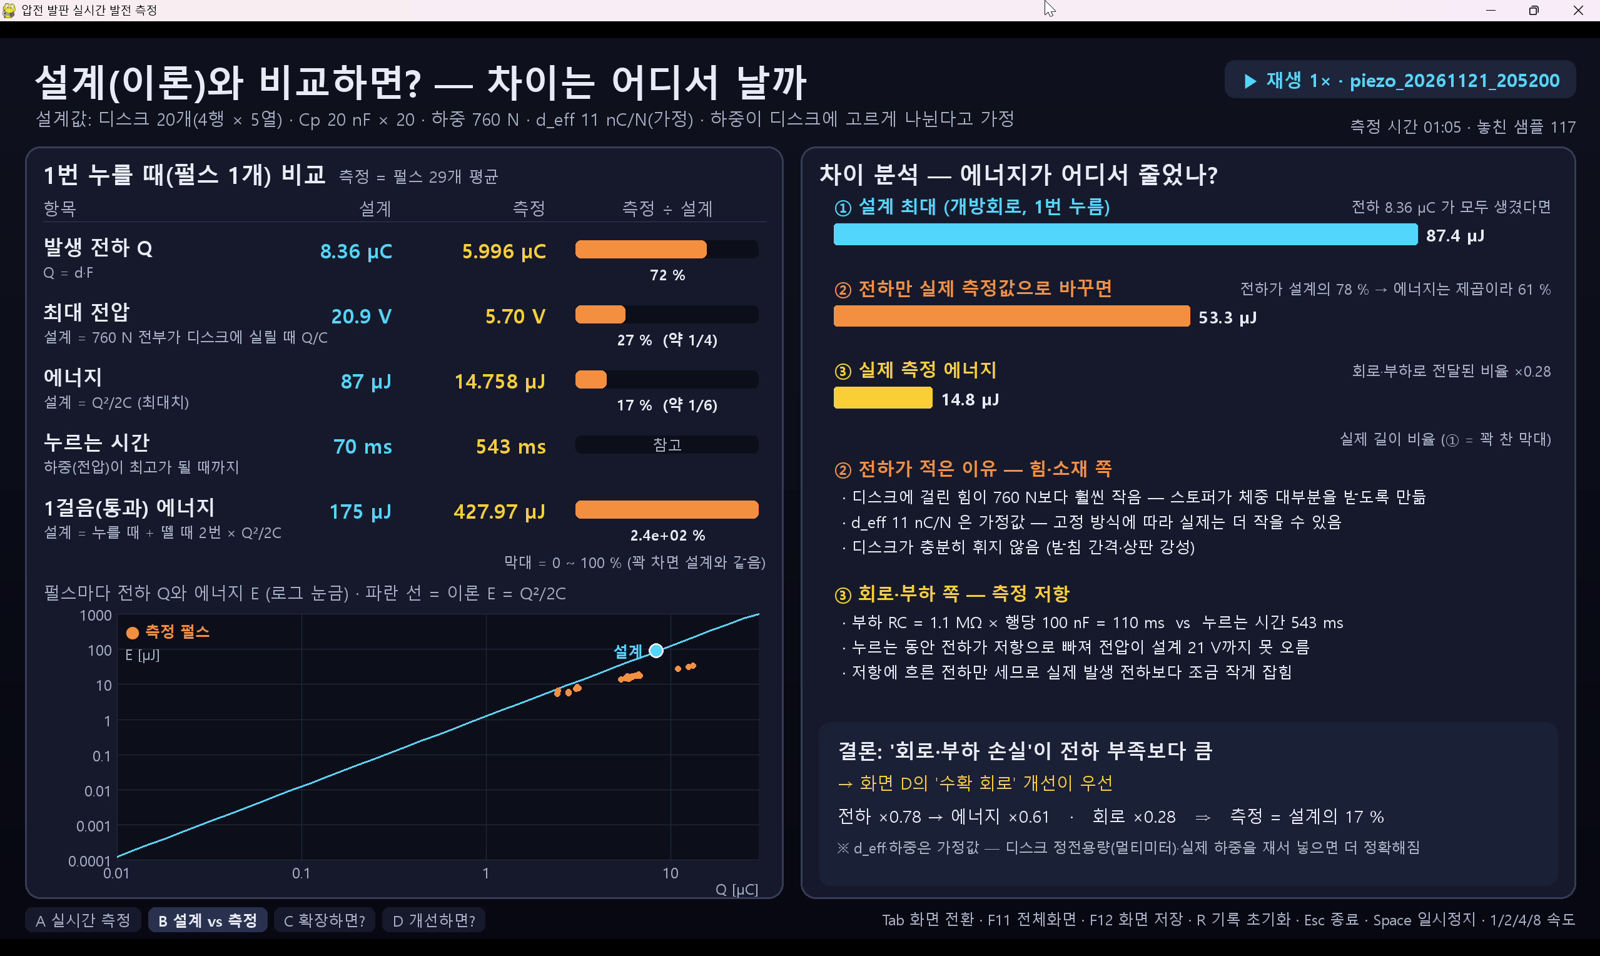
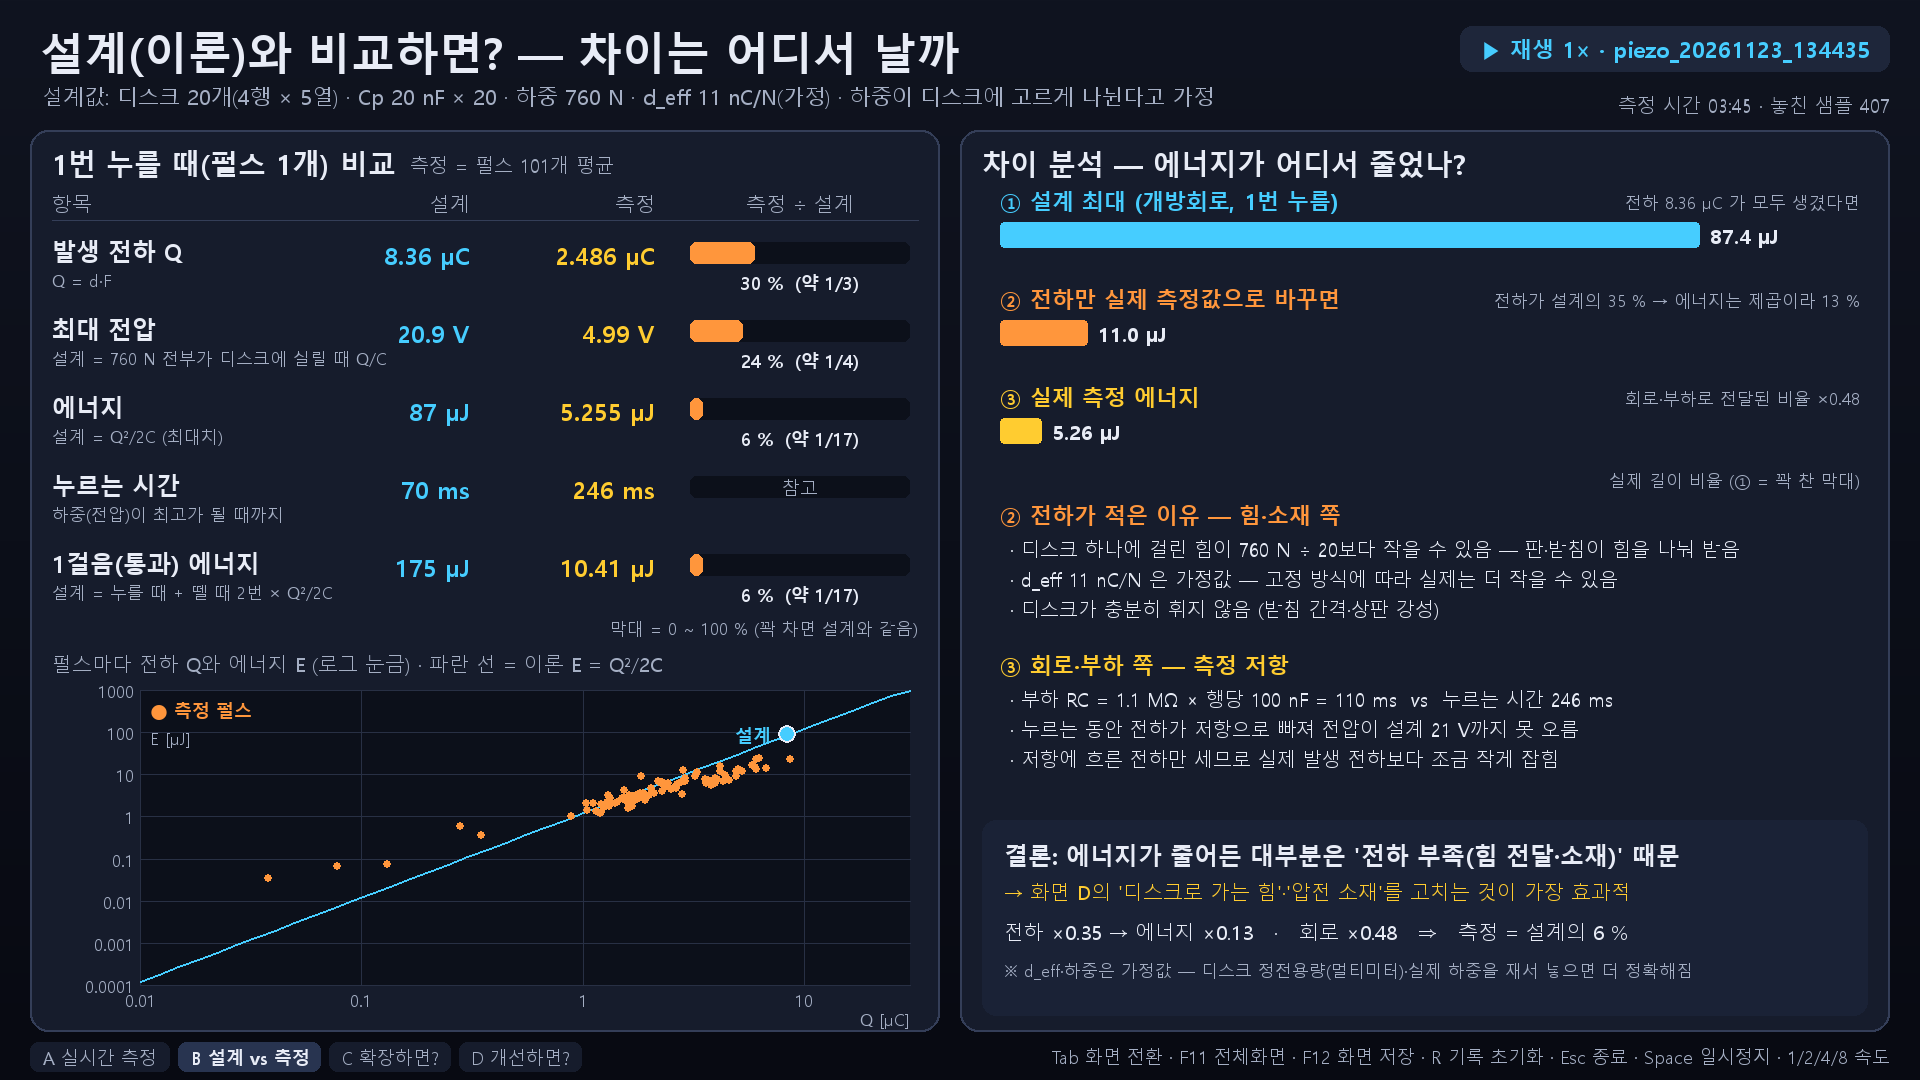
fix: GUI no longer describes stoppers that were never installed
Screen D/B text now says the force is shared by the top plate, bumpers
and supports. Walkthrough captures regenerated from the cafeteria replay
and CODE_WALKTHROUGH.md updated with both sessions.

diff --git a/tile_5x4/piezo_gui/CODE_WALKTHROUGH.md b/tile_5x4/piezo_gui/CODE_WALKTHROUGH.md
@@ -1,11 +1,13 @@
 # GUI 코드 해석 — 화면마다 무엇을 어떻게 계산하나
 
-`piezo_gui_v1.py`(Windows)와 `../piezo_jetson/piezo_jetson_v1.py`(젯슨)가 화면에 보여 주는 숫자가 **어디서 와서 어떤 식으로 계산되는지**를
-실제 화면 녹화(2026-11-22, 20:52 밟기 측정을 재생)와 함께 설명한다. 캡처는 모두 녹화 영상에서 잘라 냈다.
+`piezo_gui_v1.py`(Windows)와 `../piezo_jetson/piezo_jetson_v1.py`(젯슨)가 보여 주는 숫자가 **어디서 오고 어떤 식으로 계산되는지** 화면별로 설명한다.
 
-> *English summary:* how each screen of the presentation GUI turns the Arduino's serial lines into numbers, with captures from a screen
-> recording that replays the 20:52 stepping session. **Read the warning in §4 first:** the "per step / per person" numbers on screens
-> B–D group pulses less than 1 s apart, so during continuous stepping one group holds many steps and those numbers are inflated.
+- 움직이는 화면 A는 2026-11-22 화면 녹화(11-21 20:52 밟기 측정 재생)에서 잘라 냈다.
+- 나머지 캡처는 2026-11-23 급식실 실측(`piezo_20261123_134435`)을 `--replay … --snapshot` 으로 재생해 저장했다.
+
+> *English summary:* how each screen of the presentation GUI turns the Arduino's serial lines into numbers. Screen captures replay the
+> cafeteria session (2026-11-23), where one crossing ≈ one step, so the "per step" numbers are meaningful there. **Read §4:** during
+> continuous stepping on the tile (the 11-21 sessions) pulses less than 1 s apart merge into one group and the "per step" numbers are inflated.
 
 ---
 
@@ -23,12 +25,13 @@ State.feed()      줄 종류별로 값 정리 (행 전압, 펄스, 통과 묶음
 UI.draw()         화면 A~D 그리기 (1920×1080 기준 좌표 × 창 배율, 줄이지 않고 실제 해상도로 그림)
 ```
 
-- **펄스는 아두이노가 판정한다**(`piezo_main.ino`). 어느 행이든 1.0 V를 넘으면 펄스 시작, 모든 행이 0.3 V 아래로 30 ms 동안 머물면 끝,
-  3초가 넘으면 강제로 끝낸다. 펄스 동안 행마다 아래 두 값을 2 ms마다 더해 P 줄로 보낸다.
-  - 에너지 E = Σ V²/R × Δt (R = 1 MΩ + 100 kΩ, V는 시작 2초 잡음 기준선을 뺀 행 전압)
-  - 전하 Q = Σ V/R × Δt
-- **GUI는 이 값을 다시 계산하지 않고 받아서 정리만 한다.** 그래서 GUI 숫자와 `analyze.py`·`tile_results.py`의 숫자가 같다
-  (5개 측정 전체를 재생해 펄스 수·에너지 합이 일치하는 것을 확인함).
+- **펄스는 아두이노가 판정한다**(`piezo_main.ino`).
+  - 어느 행이든 1.0 V를 넘으면 펄스가 시작된다.
+  - 모든 행이 0.3 V 아래로 30 ms 동안 머물면 끝나고, 3초를 넘으면 강제로 끝낸다.
+  - 펄스 동안 행마다 아래 두 값을 2 ms마다 더해 P 줄로 보낸다.
+    - 에너지 E = Σ V²/R × Δt (R = 1 MΩ + 100 kΩ, V는 시작 2초 잡음 기준선을 뺀 행 전압)
+    - 전하 Q = Σ V/R × Δt
+- **GUI는 이 값을 다시 계산하지 않고 받아서 정리만 한다.** 그래서 GUI 숫자와 `analyze.py`·`tile_results.py`의 숫자가 같다(측정 전체를 재생해 펄스 수와 에너지 합이 일치하는 것을 확인함).
 - 행 전압 = ADC 값 × VREF ÷ 1023 × (R1 + R2) ÷ R2. M 줄의 VREF·R1·R2로 계산한다(`State._feed`, kind == "M").
 - 우노가 재시작해 시간이 처음부터 다시 시작해도 그래프가 끊기지 않게, 세션 시간에 차이를 더해 이어 붙인다(`State._st`).
 
@@ -36,73 +39,94 @@ UI.draw()         화면 A~D 그리기 (1920×1080 기준 좌표 × 창 배율, 
 
 ### 화면 A — 실시간 측정
 
-![화면 A](walkthrough/screen_A_live.gif)
+![화면 A (11-21 20:52 밟기 재생)](walkthrough/screen_A_live.gif)
+
+![화면 A (11-23 급식실 재생)](walkthrough/screen_A_cafeteria.png)
 
 | 영역 | 무엇을 보여 주나 | 코드 |
 |---|---|---|
 | ① 발판 단면 | 디스크 4개 = 1~4행. 각 디스크는 그 행 전압만큼 빛나고 휜다. 발은 전압이 큰 행 쪽으로 기울어져 그쪽이 먼저 닿는다 | `UI.tile`, `UI.shoe`. 밝기는 행 전압 포락선(220 ms로 서서히 줄어듦, `State.update`), 기울기는 행 전압 가중 평균 위치 |
-| ② 행별 전압 파형 | 최근 6초, 2 ms 원자료. 화면 한 칸(픽셀)마다 그 구간의 최댓값을 그려 짧은 봉우리도 놓치지 않음. 점선 = 펄스 문턱 1 V | `UI.waves` (`np.maximum.at`) |
-| ③ 지금까지 | 통과 인원, 방금 통과한 묶음 에너지, 묶음 평균, 누적 에너지, 평균 전력, 최대 전압 | `UI.cards` |
-| ④ 사람(통과)별 에너지 | 최근 40개 묶음의 에너지 막대 (주황 = 지금 진행 중) | `UI.pass_bars` |
+| ② 행별 전압 파형 | 최근 6초, 2 ms 원자료. 화면 한 칸(픽셀)마다 그 구간의 최댓값을 그려 짧은 봉우리도 놓치지 않는다. 점선 = 펄스 문턱 1 V | `UI.waves` (`np.maximum.at`) |
+| ③ 지금까지 | 통과 수, 방금 통과한 묶음 에너지, 묶음 평균, 누적 에너지, 평균 전력, 최대 전압 | `UI.cards` |
+| ④ 통과별 에너지 | 최근 40개 묶음의 에너지 막대 (주황 = 지금 진행 중) | `UI.pass_bars` |
 | ⑤ 누적 에너지 | P 줄이 올 때마다 계단처럼 늘어나는 합 | `UI.cum_graph` |
 
-"통과(묶음)"는 `analyze.py`와 같은 규칙이다: 펄스 사이 간격이 1초 이하이면 같은 묶음. P 줄은 펄스가 **끝난 뒤** 오므로,
-묶음은 마지막 펄스 뒤 1초 + 최대 펄스 길이 3초를 더 기다린 뒤 닫는다(`State.update`). 이렇게 하지 않으면 다음 펄스를 새 사람으로 세게 된다.
+"통과(묶음)"는 `analyze.py`와 같은 규칙이다: 펄스 사이 간격이 1초 이하이면 같은 묶음이다.
+- P 줄은 펄스가 **끝난 뒤** 온다.
+- 그래서 묶음은 마지막 펄스 뒤 1초에 최대 펄스 길이 3초를 더 기다린 뒤 닫는다(`State.update`).
+- 이렇게 하지 않으면 다음 펄스를 새 사람으로 센다.
 
-### 화면 B — 설계(이론)와 비교
+### 화면 B — 설계(가정)와 비교
 
 ![화면 B](walkthrough/screen_B_design_vs_measured.png)
 
 설계값은 실제 발판(디스크 20개, 1개당 20 nF)과 `piezo_sim.py`의 가정(하중 760 N, 유효 압전계수 11 nC/N)으로 계산한다(`UI.draw_theory`).
 
-| 줄 | 설계 계산 | 측정 | 이 녹화의 값 |
-|---|---|---|---|
-| 발생 전하 | Q = d·F = 11 nC/N × 760 N = 8.36 µC | 펄스마다 4행 Q 합의 평균 | 5.996 µC (72 %) |
-| 최대 전압 | V = Q / C = 8.36 µC ÷ 400 nF = 20.9 V | 펄스마다 가장 큰 행 전압의 평균 | 5.70 V (27 %) |
-| 에너지 | E = Q² / 2C = 87 µJ | 펄스마다 4행 E 합의 평균 | 14.758 µJ (17 %) |
-| 누르는 시간 | 70 ms (시뮬레이션 가정) | 행이 문턱을 넘은 뒤 최고점까지 걸린 시간의 평균 | 543 ms |
-| 1걸음(통과) | 누름 + 뗌 2번 × Q²/2C = 175 µJ | **묶음 평균 (§4 주의)** | 427.97 µJ |
+| 줄 | 설계 계산 | 측정 | 급식실 (11-23) | 계속 밟기 (11-21 20:52) |
+|---|---|---|---|---|
+| 발생 전하 | Q = d·F = 11 nC/N × 760 N = 8.36 µC | 펄스마다 4행 Q 합의 평균 | 2.486 µC (30 %) | 5.996 µC (72 %) |
+| 최대 전압 | V = Q / C = 8.36 µC ÷ 400 nF = 20.9 V | 펄스마다 가장 큰 행 전압의 평균 | 4.99 V (24 %) | 5.70 V (27 %) |
+| 에너지 | E = Q² / 2C = 87 µJ | 펄스마다 4행 E 합의 평균 | 5.255 µJ (6 %) | 14.758 µJ (17 %) |
+| 누르는 시간 | 70 ms (시뮬레이션 가정) | 행이 문턱을 넘은 뒤 최고점까지 걸린 시간의 평균 | 246 ms | 543 ms |
+| 1걸음(통과) | 누름 + 뗌 2번 × Q²/2C = 175 µJ | 묶음 평균 (§4) | 10.41 µJ | 427.97 µJ (부풀려짐) |
 
-오른쪽 "차이 분석"은 에너지 감소를 두 몫으로 나눈다.
-① 설계 최대 → ② 전하만 측정값으로 바꾼 값 E_q = E_설계 × (Q_측정 / Q_설계)² → ③ 실제 측정 에너지. ③ ÷ ②를 "회로·부하로 전달된 비율"로 표시한다.
-이 녹화(20:52)에서는 전하가 설계의 78 %(제곱 평균 기준)인데 에너지는 17 %라서, 화면이 "회로·부하 손실이 더 크다"고 판정했다.
-부하 RC(1.1 MΩ × 행당 100 nF = 110 ms)가 실제 누름 시간(543 ms)보다 훨씬 짧아, 누르는 동안 전하가 저항으로 빠져 전압이 오르지 못한 것과 맞는다.
-**설계값의 하중·압전계수는 가정이므로, 이 판정은 "가정한 설계 대비"라는 조건이 붙는다.** 측정마다 판정이 달라질 수 있다.
+오른쪽 "차이 분석"은 에너지가 줄어든 것을 두 몫으로 나눈다.
+1. 설계 최대에서 시작한다.
+2. 전하만 측정값으로 바꾼 값을 계산한다: E_q = E_설계 × (Q_측정 / Q_설계)². 에너지는 전하의 제곱에 비례하므로 이 몫은 "전하가 적게 생겨서" 줄어든 부분이다.
+3. 실제 측정 에너지와 비교한다. ③ ÷ ②는 "생긴 전하가 회로·부하로 전달된 비율"이다.
+
+두 측정을 비교하면 다음과 같다.
+- **급식실:** 전하 ×0.35 → 에너지 ×0.13, 회로 ×0.48. 화면은 주된 원인을 "전하 부족"으로 판정했다. 사람이 짧게(246 ms) 밟고 지나가 저항으로 빠져나간 몫은 상대적으로 작았지만, 생긴 전하 자체가 적었다.
+- **계속 밟기(20:52):** 회로 ×0.28로 회로·부하 손실이 더 컸다. 부하 RC(1.1 MΩ × 행당 100 nF = 110 ms)가 누르는 시간(543 ms)보다 훨씬 짧아, 누르는 동안 전하가 저항으로 빠져 전압이 오르지 못한 것과 맞는다.
+
+**설계값의 하중과 압전계수는 가정이다.** 그래서 이 비율은 실제 손실의 크기라기보다 측정끼리 비교하는 데 의미가 있다.
 
 ### 화면 C — 확장하면?
 
 ![화면 C](walkthrough/screen_C_scale_up.png)
 
-발판 장수와 걸음 수는 `scenario_numbers()`가 계산한다: 장수 = ⌈통로 폭 ÷ 0.5 m⌉ × ⌈통로 길이 ÷ 0.4 m⌉, 1명당 걸음 = 통로 길이 ÷ 보폭 0.65 m.
-하루 에너지 = 하루 걸음 × "1걸음 에너지"이고, 오른쪽 숫자는 그 에너지를 IoT 전송(1회 100 µJ), LED, 스마트폰 충전 등으로 나눈 값이다(`fmt_unit`).
-인원·통로 크기·보폭·상용 타일 3 J는 모두 **가정**이며 `piezo_gui_v1.py` 맨 위에서 바꾼다.
+- 발판 장수와 걸음 수는 `scenario_numbers()`가 계산한다.
+  - 장수 = ⌈통로 폭 ÷ 0.5 m⌉ × ⌈통로 길이 ÷ 0.4 m⌉. 급식실 입구 2 m × 2.4 m이면 4 × 6 = 24장이다.
+  - 1명당 걸음 = 통로 길이 ÷ 보폭 0.65 m.
+- 하루 에너지 = 하루 걸음 × "1걸음 에너지"다. 급식실 측정이면 10.41 µJ × 14,400걸음 ≈ 150 mJ이다.
+- 오른쪽 숫자는 그 에너지를 IoT 전송(1회 100 µJ), LED, 스마트폰 충전 등으로 나눈 값이다(`fmt_unit`).
+- **인원, 통로 크기, 보폭, 상용 타일 3 J는 모두 가정이다.** 바꾸려면 `piezo_gui_v1.py` 맨 위를 고친다.
+- 평균 10.41 µJ는 여러 걸음이 섞인 긴 묶음 몇 개 때문에 중앙값(6.5 µJ)보다 크다. 정류·저장 손실도 빼지 않았으므로 화면 C의 값은 상한으로 읽는다.
 
 ### 화면 D — 부족한 점과 개선 계산기
 
-![화면 D](walkthrough/screen_D_calculator.gif)
+![화면 D](walkthrough/screen_D_improvement.png)
 
-왼쪽은 한계 목록, 오른쪽은 계산기다. 항목마다 고른 배수를 모두 곱해 "개선 배수"를 만든다(`UI.lever_factor`).
-디스크 수는 E ∝ 개수, 디스크로 가는 힘은 E ∝ F²(1.5배 → 2.25배), 소재·회로는 고른 배수 그대로다. 막대는 상용 타일 3 J를 꽉 찬 막대로 둔 **선형 길이**다.
-배수는 예상치이며, 녹화 끝에서는 디스크 80개(×4) × 힘 3배(×9) × 소재 ×8 × 회로 ×4 를 골라 ×1,152가 되었다.
+- 왼쪽은 한계 목록, 오른쪽은 계산기다.
+- 항목마다 고른 배수를 모두 곱해 "개선 배수"를 만든다(`UI.lever_factor`).
+  - 디스크 수: E ∝ 개수
+  - 디스크로 가는 힘: E ∝ F²(1.5배 → 2.25배). 힘은 상판·고무 범폰·받침을 거치며 나뉜다.
+  - 소재·회로: 고른 배수 그대로
+- 막대는 상용 타일 3 J를 꽉 찬 막대로 둔 **선형 길이**다.
+- **배수는 예상치일 뿐, 실험으로 확인한 값이 아니다.**
 
 ## 3. 젯슨 버전에서 더해진 것
 
-`../piezo_jetson/`은 화면 A~D를 그대로 가져다 쓰고(`import piezo_gui_v1`), 화면 E(발판·카메라·초음파 사람 수 비교)와
-"개인 프라이버시를 위해 영상은 저장하지 않습니다!" 띠를 더한다. 카메라 사람 수는 노란 선을 넘은 중심점 수(`LineCounter`, 선 주변 ±4 %는 판단 보류),
-초음파는 평소 거리보다 30 cm 가까워진 순간을 센다. **젯슨·키트 실물에서는 아직 시험하지 않았다.**
+`../piezo_jetson/`은 화면 A~D를 그대로 가져다 쓰고(`import piezo_gui_v1`), 두 가지를 더한다.
+- 화면 E: 발판·카메라·초음파로 센 사람 수를 비교한다.
+  - 카메라 사람 수는 노란 선을 넘은 중심점 수다(`LineCounter`, 선 주변 ±4 %는 판단 보류).
+  - 초음파는 평소 거리보다 30 cm 가까워진 순간을 센다.
+- "개인 프라이버시를 위해 영상은 저장하지 않습니다!" 띠.
 
-## 4. ⚠ 숫자를 읽을 때 주의할 점 (중요)
+**젯슨·키트 실물에서는 아직 시험하지 않았다.**
 
-GUI의 **"통과 인원", "1명당", "1걸음(통과)"** 은 모두 *1초 안에 이어진 펄스 묶음*을 한 단위로 센다.
-한 사람이 발판을 한 번 지나가는 상황(원래 설계 의도)에서는 묶음 1개 ≈ 1걸음이지만, **이번처럼 발판 위에서 계속 밟으면 여러 걸음이 한 묶음이 된다.**
-녹화한 20:52 측정은 펄스 29개가 한 묶음이어서 아래 값들이 크게 부풀려져 있다.
+## 4. ⚠ 숫자를 읽을 때 주의할 점
 
-| 화면 | 녹화에 보이는 값 | 실제 의미 | 펄스 기준으로 다시 보면 |
+GUI의 **"통과", "1명당", "1걸음(통과)"** 은 모두 *1초 안에 이어진 펄스 묶음*을 한 단위로 센다.
+
+- **급식실처럼 사람이 발판을 한 번 지나가는 경우**(원래 설계 의도): 통과 51회 중 30회가 누름·뗌 펄스 2개였고 평균 1.98펄스였다. 그래서 묶음 1개를 1걸음으로 볼 수 있다. 손으로 센 50회와 총수도 2 % 차이였다(한 번씩 시각을 맞춰 대조하지는 않았다).
+- **11-21 예비 측정처럼 발판 위에서 계속 밟는 경우**: 여러 걸음이 한 묶음이 된다. 20:52 측정은 펄스 29개가 한 묶음이어서 걸음당 값이 크게 부풀려졌다.
+
+| 화면 | 20:52 녹화에 보이는 값 | 실제 의미 | 펄스 기준으로 다시 보면 |
 |---|---|---|---|
-| A ③ | 통과 인원 1명, 1명당 428 µJ | 펄스 29개의 합 | 펄스당 평균 14.76 µJ |
-| B 1걸음 줄 | 427.97 µJ = 설계의 2.4 × 10² % | 묶음 1개 = 29펄스의 합 | 한 걸음을 누름·뗌 펄스 2개로 보면 약 30 µJ (가정) |
-| C 전체 | 1걸음 428 µJ → 하루 6.16 J·385 J, 상용 대비 7,010배 | 위의 부풀린 값을 걸음 수에 곱한 것 | 같은 가정(2펄스 = 1걸음)이면 하루 값은 약 1/14 |
-| D 지금(실측)·개선하면 | 428 µJ → ×1,152 = 493 mJ (상용의 16 %) | 부풀린 428 µJ에 배수를 곱한 것 | 2펄스 = 1걸음 가정이면 약 30 µJ × 1,152 ≈ 35 mJ (상용의 약 1 %) |
+| A ③ | 통과 1회, 1명당 428 µJ | 펄스 29개의 합 | 펄스당 평균 14.76 µJ |
+| B 1걸음 줄 | 427.97 µJ | 묶음 1개 = 29펄스의 합 | 한 걸음을 펄스 2개로 보면 약 30 µJ (가정) |
+| C 전체 | 1걸음 428 µJ로 하루 값을 계산 | 부풀린 값을 걸음 수에 곱한 것 | 같은 가정이면 하루 값은 약 1/14 |
 
-그래서 저장소의 결과 문서(`../README.md`, `../analysis/results.md`)는 **펄스당 값만** 결과로 쓴다(밟기 191펄스 중앙값 5.6 µJ).
-화면 B의 위 세 줄(전하·전압·에너지)과 차이 분석은 펄스당 평균이라 위 문제가 없다.
+그래서 예비 측정은 펄스당 값으로만 정리했고(`../analysis/results.md`), 걸음(통과)당 값은 급식실 측정에서만 구했다.
+화면 B의 위 세 줄(전하·전압·에너지)과 차이 분석은 펄스당 평균이라 이 문제가 없다.
